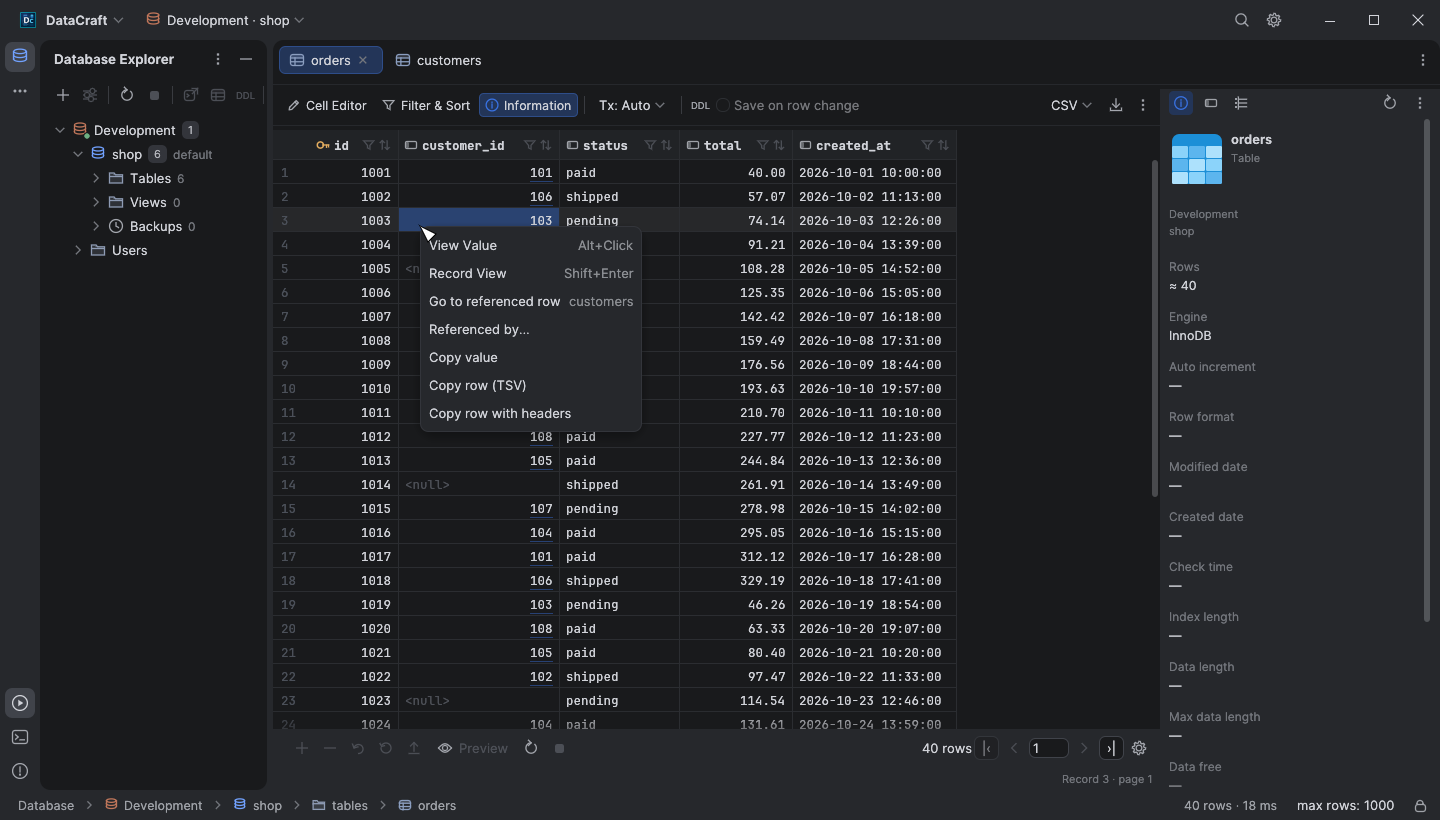
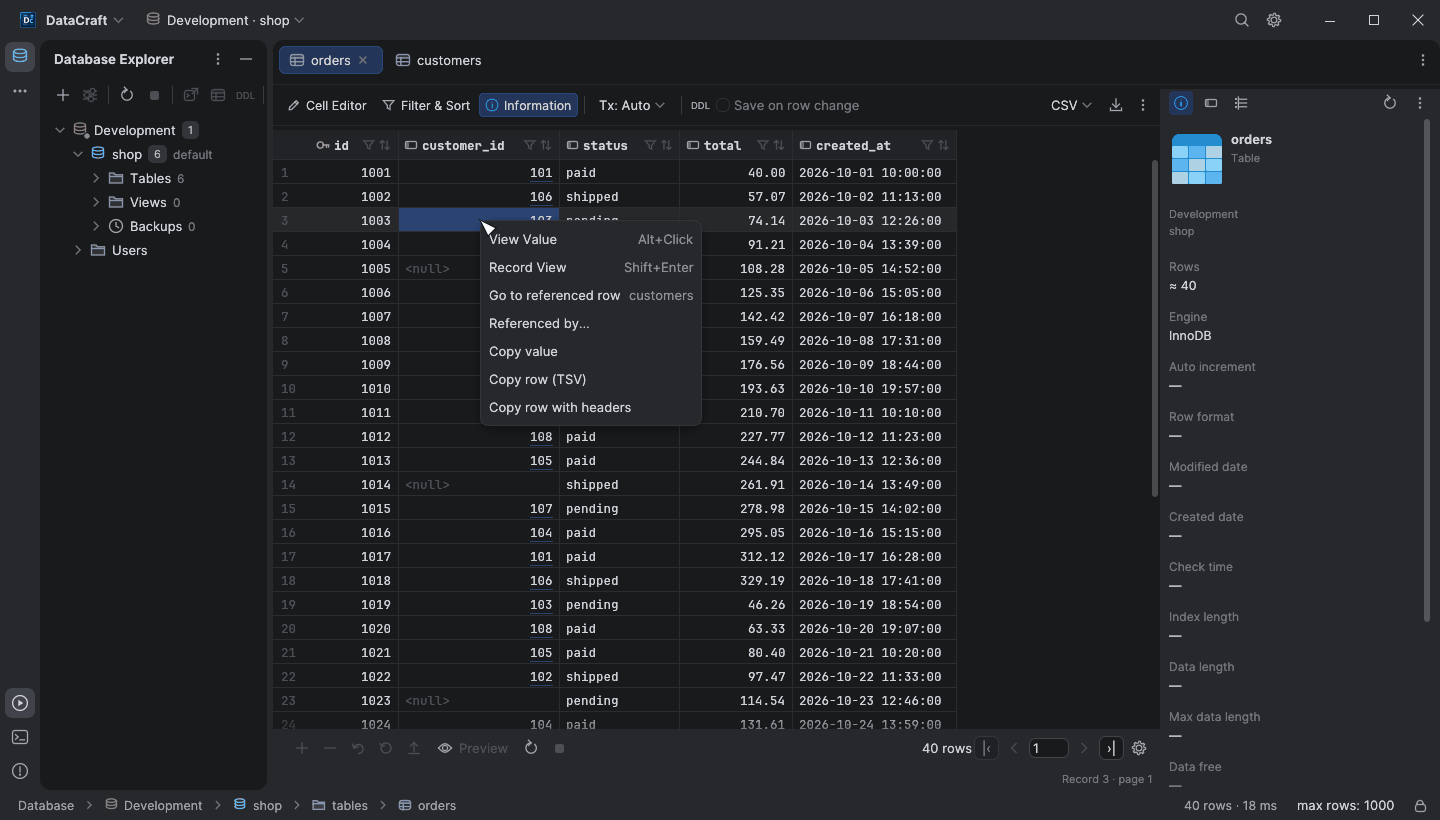
Show the FK follow button in the docs and shrink the screenshots
Four 128-colour captures (208 KB instead of 1.2 MB); the Ctrl-hover one
is gone with the gesture.

Changed region(s): [[0.2812, 0.2439, 0.4688, 0.5183]]

diff --git a/docs/table-editor.md b/docs/table-editor.md
@@ -17,7 +17,7 @@ Ctrl for the combinations below.
 | Ctrl+Page Up / Page Down | First / last loaded row |
 | Shift+Arrow | Extend a rectangular cell selection |
 | Shift+click | Select the cell rectangle from the anchor |
-| Ctrl+click | Add or remove individual cells from the selection; on an underlined foreign-key value, open the referenced row instead |
+| Ctrl+click | Add or remove individual cells from the selection |
 | Alt+click (⌥-click on macOS) | Show the cell's whole value in a popup below it (JSON indented); Esc or a click outside closes it. Double-clicking a cell that can't be edited, or View Value in the context menu, does the same |
 | Drag with the mouse | Select a cell rectangle; dragging near an edge scrolls the grid |
 | Click a column name | Select that entire column in the loaded, filtered grid |
@@ -60,12 +60,15 @@ Sorting or filtering commits an open editor into pending changes first.
 
 ## Follow foreign keys
 
-Cells of declared foreign-key columns have a faint underline. Hold Ctrl (⌘ on
-macOS) over one to show it as a link, then click to open the referenced row: the
-parent table opens filtered to that key, in its existing tab when that tab has no
-pending changes or running query, otherwise in a new tab. Right-click a cell for
-**Go to referenced row** (one item per key using the column, with the parent table
-shown on the right) and **Referenced by…**.
+Cells of declared foreign-key columns have a faint underline. Hovering one shows
+a small arrow button at the edge of the cell away from the value; click it to open
+the referenced row. Clicking the value itself, with or without Ctrl/⌘, still
+selects cells as usual. The parent table opens filtered to that key, in its
+existing tab when that tab has no pending changes or running query, otherwise in
+a new tab. Right-click a cell for **Go to referenced row** (one item per key using
+the column, with the parent table shown on the right) and **Referenced by…**.
+
+![The follow button of a foreign-key value](screenshots/fk-navigation/grid-links.png)
 
 ![Context menu with the foreign-key items](screenshots/fk-navigation/context-menu.png)
 
@@ -79,9 +82,11 @@ pending edits.
 ![The referenced customer, filtered, with the Back button](screenshots/fk-navigation/referenced-row.png)
 
 **Referenced by…** lists every foreign key that references the row's table, with
-the number of rows referencing this row. Counts stop at 1000 (shown as `1000+`),
-run on a separate session, time out after 30 seconds and are cancelled when the
-dialog closes. **Open rows** opens the child table filtered to the referencing
+the number of rows referencing this row. Counts stop at 1000 (shown as `1000+`)
+and run on a separate session, one table at a time. Each count gets 10 seconds:
+a slow one (for example on an unindexed key column) is stopped on the server and
+shown as timed out, while the others still run. Closing the dialog cancels the
+counting. **Open rows** opens the child table filtered to the referencing
 rows. A key whose referenced columns are not all in the result is listed without
 a count.
 
@@ -91,14 +96,21 @@ Every jump is recorded. The Back / Forward arrows at the start of the table
 toolbar, or Alt+Left / Alt+Right, return to the previous table and filter; a
 closed tab is reopened, and a tab with pending changes is only activated.
 
-Keys are read per table, on a session of their own, the first time a result of
-that table is shown, and cached until the schema is refreshed or the table tab is
-reloaded. SQL console results get links only for a simple `SELECT` over one known
+Keys are read per table on the database's metadata session (the one the object
+browser uses, so opening many tables does not open a connection each), the first
+time a result of that table is shown, and cached until the schema is refreshed,
+the table tab is reloaded or the connection closes. If they cannot be read, the
+status bar says why and the table has no links until it is reloaded. On
+PostgreSQL, keys between partitioned tables are shown once, for the partitioned
+tables, not for each partition. SQL console results get links only for a simple `SELECT` over one known
 table, and only for columns that map unambiguously to that table's columns. The
 feature is available on PostgreSQL, SQLite (`main` schema), SQL Server,
 MySQL/MariaDB, Oracle and Snowflake; it is hidden for NoSQL engines and
-ClickHouse. On Oracle, references from other owners are not listed, and on
-MySQL/MariaDB only references from the same database.
+ClickHouse. On Oracle, references from other owners are not listed; on
+MySQL/MariaDB and Snowflake only references within the same database are; on
+SQLite, only keys between tables of the `main` schema. The **Referenced by…**
+dialog repeats this limit at the bottom. SQLite keys written with other letter
+case (`REFERENCES Parent(ID)`) resolve to the declared names.
 
 ## Optional save on row change
 

diff --git a/docs/screenshots/fk-navigation/README.md b/docs/screenshots/fk-navigation/README.md
@@ -8,11 +8,10 @@ SQLite and PostgreSQL behaviour is covered by the tests listed in the pull reque
 
 | File | Shows |
 | --- | --- |
-| [grid-links.png](grid-links.png) | The faint underline on foreign-key values; `<null>` keys are not links |
-| [ctrl-hover.png](ctrl-hover.png) | Ctrl held over a key value: it is shown as a link |
+| [grid-links.png](grid-links.png) | The faint underline on foreign-key values and the follow button of the hovered one; `<null>` keys are not links |
 | [context-menu.png](context-menu.png) | **Go to referenced row** (parent table on the right) and **Referenced by…** |
 | [referenced-row.png](referenced-row.png) | The parent row opened through the Filter & Sort builder, with the Back button |
-| [referenced-by.png](referenced-by.png) | Referencing tables with bounded counts (`1000+`) and **Open rows** |
+| [referenced-by.png](referenced-by.png) | Referencing tables with bounded counts (`1000+`), **Open rows** and the engine's scope note |
 
 Regenerate on Windows with a working GPU:
 
@@ -21,6 +20,7 @@ cargo test --locked render_fk_navigation_screenshots -- --ignored
 ```
 
 The images are written to `target/fk-navigation-snapshots/`; review them and copy
-them to this directory. `DATACRAFT_FK_CELL=x,y` moves the hovered and right-clicked
-cell if the layout changes. These are Windows UI captures at 1440 × 820 in the
+them to this directory reduced to a 128-colour palette (about 50 KB each), e.g.
+with Pillow: `Image.open(src).convert("RGB").quantize(128, dither=Image.Dither.NONE).save(dst, optimize=True)`.
+`DATACRAFT_FK_CELL=x,y` moves the hovered and right-clicked cell if the layout changes. These are Windows UI captures at 1440 × 820 in the
 dark theme, not evidence of native macOS runtime testing.
